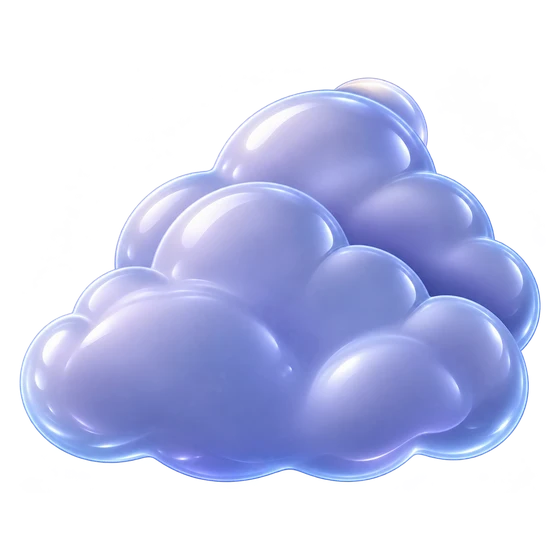
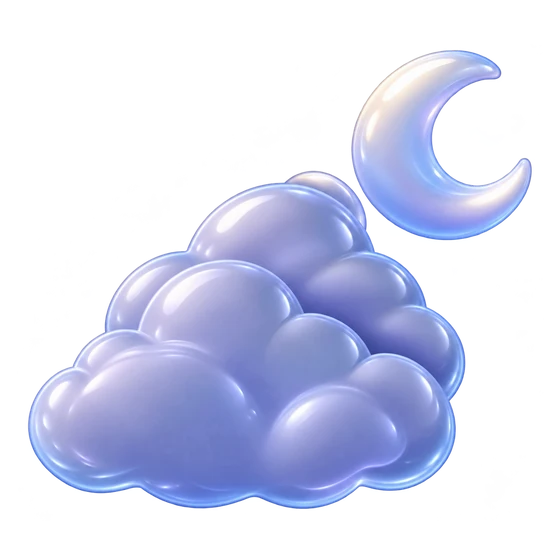
Refine night weather artwork and warm weather states

diff --git a/src/lib/environment-presentation.ts b/src/lib/environment-presentation.ts
@@ -11,15 +11,14 @@ export type Scene =
   | "sunny-morning"
   | "sunny-dusk"
   | "sunny-night"
+  | "warm-night"
   | "partly-cloudy"
   | "cloudy"
   | "cloudy-night"
-  | "fog"
   | "fog-night"
   | "steady-rain"
   | "rain-night"
   | "storm"
-  | "storm-night"
   | "air"
   | "air-moderate"
   | "haze"
@@ -68,19 +67,22 @@ export function conditionScene(
     const night = hour < 5 || hour >= 18;
     const code = weather?.value;
     if (typeof code === "number") {
-      if ([0, 1, 2].includes(code)) {
-        if (night) return "sunny-night";
-        if (hour < 11) return "sunny-morning";
-        if (hour >= 17) return "sunny-dusk";
-        return code === 0 ? "sunny" : "partly-cloudy";
-      }
-      if (code === 3) return night ? "cloudy-night" : "cloudy";
-      if ([45, 48].includes(code)) return night ? "fog-night" : "fog";
-      if ([95, 96, 97, 99].includes(code)) return night ? "storm-night" : "storm";
+      if ([95, 96, 97, 99].includes(code)) return "storm";
       if ([51, 53, 55, 56, 57, 61, 63, 65, 66, 67, 80, 81, 82].includes(code))
         return night ? "rain-night" : "steady-rain";
     }
+    if (/petir/i.test(insight.title)) return "storm";
     if (/hujan/i.test(insight.title)) return night ? "rain-night" : "steady-rain";
+    if (code === 3) return night ? "cloudy-night" : "cloudy";
+    if (code === 45 || code === 48) return night ? "fog-night" : "cloudy";
+    if (/terasa hangat/i.test(insight.title)) return night ? "warm-night" : "sunny-dusk";
+    if (!night && /terasa panas/i.test(insight.title)) return "sunny";
+    if (code === 0 || code === 1 || code === 2) {
+      if (night) return "sunny-night";
+      if (hour < 11) return "sunny-morning";
+      if (hour >= 17) return "sunny-dusk";
+      return code === 0 ? "sunny" : "partly-cloudy";
+    }
     return night ? "cloudy-night" : "cloudy";
   }
   if (insight.category === "air_quality") {

diff --git a/src/styles/insights.css b/src/styles/insights.css
@@ -554,7 +554,7 @@
   --panel-cobalt: #52647e;
   --panel-deep: #20324b;
 }
-:is(.panel-storm, .panel-storm-night) {
+.panel-storm {
   --panel-cobalt: #365781;
 }
 .insight-message,
@@ -741,10 +741,10 @@
 :is(.scene-steady-rain, .scene-rain-night) img {
   animation: rain-hover 4s ease-in-out infinite;
 }
-:is(.scene-storm, .scene-storm-night) img {
+.scene-storm img {
   animation: storm-hover 6s ease-in-out infinite;
 }
-:is(.scene-air, .scene-air-moderate, .scene-haze, .scene-fog, .scene-fog-night) img {
+:is(.scene-air, .scene-air-moderate, .scene-haze, .scene-fog-night) img {
   animation: air-hover 8s ease-in-out infinite;
 }
 .scene-soil img {
